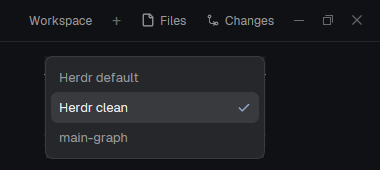
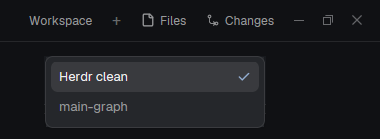
fix(workspaces): leave Herdr's main layout out of the menu (#14)
Herdr's shipped main can't carry the Workspace link, so switching to it
from the menu left no way back but a key or a command. The menu now
hides main along with the demo layouts; "clean", its copy with the
link, stands in for it. Docs, recipe snippet and preview updated.

Claude-Session: https://claude.ai/code/session_017X7WkkdpFJcHjoUjqDkwuE

diff --git a/workspaces/mods/workspaces/main.js b/workspaces/mods/workspaces/main.js
@@ -7,9 +7,10 @@ import { View, div, svg } from "gpui-kit";
 import { v_flex, h_flex } from "gpui-base";
 import { run, props, closeOverlay, theme, layouts, shared } from "herdr";
 
-// Herdr's shipped demo layouts. "main" stays: it is Herdr's default screen.
-const HIDDEN = new Set(["terminals", "win98"]);
-const LABELS = { main: "Herdr default", clean: "Herdr clean" };
+// Herdr's shipped layouts: "main" has no Workspace link to come back with
+// ("clean" is its copy that does), the others are demos.
+const HIDDEN = new Set(["main", "terminals", "win98"]);
+const LABELS = { clean: "Herdr clean" };
 
 // Rows are ROW px and the list has PAD px around it: the opener sizes the popup
 // as 2 * PAD + rows * ROW, since a mod can't import another mod's code.

diff --git a/workspaces/RECIPE.md b/workspaces/RECIPE.md
@@ -10,7 +10,7 @@ A layout picker: a "Workspace" text link in the tab bar opens a popup listing th
 
 **The menu**: a popup at the pointer, 220px wide, on `popover`, 5px padding, text 12.8px. One 31px row per layout (8px side padding, radius 7): the label, truncated, in `foreground` for the shown layout and `muted` for the others; the shown layout also gets a 14px `accent` check (`mods/workspace-chrome/check.svg`) at the right. The highlighted row is `selected`, hovered rows `hover`. With no layouts to list, one `dim` row reads "No layouts".
 
-Rows are `layouts()` in its order (main first), minus `terminals` and `win98` (Herdr's demo layouts). Labels: `main` → "Herdr default", `clean` → "Herdr clean", any other layout by its file name.
+Rows are `layouts()` in its order, minus Herdr's shipped layouts: `main` (it can't carry the link, so switching to it would leave the person without a way back; `clean` is its copy that can) and the demos `terminals` and `win98`. Labels: `clean` → "Herdr clean", any other layout by its file name.
 
 ## How it behaves
 
@@ -33,7 +33,7 @@ In a tab bar mod based on Herdr's `tabs` (0.1.15), import `layouts` from `"herdr
 .child(h_flex().id("workspace").h(26).px(8).flex_none().items_center().rounded(6).text_size(12).text_color(t.muted)
   .hover(s => s.bg(t.hover).text_color(t.foreground)).on_mouse_down("left", stop)
   .on_click(() => openOverlay({ mod: "workspaces", kind: "popup", width: 220,
-    height: 10 + 31 * Math.max(1, layouts().filter(n => n !== "terminals" && n !== "win98").length) }))
+    height: 10 + 31 * Math.max(1, layouts().filter(n => !["main", "terminals", "win98"].includes(n)).length) }))
   .child("Workspace"))
 ```
 
@@ -52,7 +52,7 @@ Add the link to `mods/tabs-workspace/main.js` as above, then in `layouts/clean.j
 
 - Copying the folder alone shows nothing. The install is not done until clicking Workspace in the person's tab bar opens the menu.
 - Herdr's shipped `main` can't carry the link; from it, Ctrl+Shift+L (`layout.switch` with no name) steps to the next layout.
-- The hidden names live in two places, this mod and the opener's height; change both together.
+- The hidden names (`main`, `terminals`, `win98`) live in two places, this mod and the opener's height; change both together.
 - `layout.clone` switches the window to the clone. Put the person back on their layout afterwards.
 - `herdr-app check` loads the mod with no props; it passes with or without a tab bar wired. To see the menu without the link: `herdr-app do mod.open '{"name":"workspaces"}'`.
 - Built and used on Windows with Herdr 0.1.15. Untested on macOS and Linux.
@@ -60,6 +60,6 @@ Add the link to `mods/tabs-workspace/main.js` as above, then in `layouts/clean.j
 ## Done when
 
 - `herdr-app check` passes for `mods/workspaces` and for each tab bar mod that was edited; `herdr-app status` shows no errors.
-- Clicking Workspace opens the menu listing the person's layouts without Terminals and Herdr 98, the shown one ticked.
+- Clicking Workspace opens the menu listing the person's layouts without Herdr's main, Terminals and Herdr 98, the shown one ticked.
 - Choosing another layout switches the window to it; `herdr-app status` reports that layout.
 - If `clean` was made, it looks like Herdr's default plus the Workspace link, and the link switches back.

diff --git a/workspaces/README.md b/workspaces/README.md
@@ -7,11 +7,11 @@ A "Workspace" link in the tab bar that opens a small menu of your layouts, like 
 ## What it does
 
 - **Workspace** sits in the tab bar just before the `+` button, as plain text, apart from the panel buttons.
-- Clicking it opens a menu at the pointer listing every layout in `~/.config/herdr-app/layouts/`, the shown one ticked. Herdr's demo layouts (Terminals, Herdr 98) are left out. `main` reads "Herdr default"; `clean` reads "Herdr clean".
+- Clicking it opens a menu at the pointer listing every layout in `~/.config/herdr-app/layouts/`, the shown one ticked. Herdr's own layouts are left out: its default (`main`), because it has no link to come back with, and the demos Terminals and Herdr 98. `clean` reads "Herdr clean".
 - Click a row, or use ↑/↓ and Enter, to switch. Esc closes it.
 - Nothing is uninstalled or reinstalled: mods a layout doesn't place simply aren't shown.
 
-**Herdr clean.** Herdr's own layout and tab bar are read-only, so the link can't be added to them. The recipe makes `clean`, a copy of Herdr's default layout whose tab bar (`tabs-workspace`, a copy of Herdr's `tabs`) has the link. It looks like Herdr's default plus that one link, so you can show stock Herdr and still switch back with a click.
+**Herdr clean.** Herdr's own layout and tab bar are read-only, so the link can't be added to them. The recipe makes `clean`, a copy of Herdr's default layout whose tab bar (`tabs-workspace`, a copy of Herdr's `tabs`) has the link. It looks like Herdr's default plus that one link, so you can show stock Herdr and still switch back with a click. It replaces Herdr's default in the menu.
 
 ## Install
 
@@ -31,6 +31,6 @@ It follows [RECIPE.md](RECIPE.md). Installation has two parts:
 ## Limits
 
 - Herdr's shipped `main` layout has no link. From it, switch back with **Ctrl+Shift+L** (next layout) or `herdr-app do layout.switch '{"name":"<layout>"}'`.
-- The hidden names (`terminals`, `win98`) are fixed in `main.js` and repeated in the tab bar's height calculation.
+- The hidden names (`main`, `terminals`, `win98`) are fixed in `main.js` and repeated in the tab bar's height calculation.
 - A layout switch closes open overlay windows.
 - Built and used on Windows with Herdr 0.1.15. Untested on macOS and Linux.

diff --git a/README.md b/README.md
@@ -10,7 +10,7 @@ Mods for the [Herdr](https://herdr.dev) desktop app. Each mod lives in its own f
 | [Skills](skills/) | A side panel listing the Claude Code skills and slash commands of the project and of `~/.claude`, with each one's text. |
 | [Servers](servers/) | A sidebar section listing the local servers running on your computer under their space, each with a stop button and an open-in-browser button. |
 | [Scripts](scripts/) | A side panel listing the project's `package.json` scripts; a click runs one in a new terminal pane. |
-| [Workspaces](workspaces/) | A "Workspace" link in the tab bar that opens a menu of your layouts; each layout is its own set of mods, so picking one switches them. Includes a clean copy of Herdr's default with the link. |
+| [Workspaces](workspaces/) | A "Workspace" link in the tab bar that opens a menu of your layouts; each layout is its own set of mods, so picking one switches them. Includes a clean copy of Herdr's default with the link, listed in place of the original. |
 | [Herdr orchestration](herdr-orchestration/) | Not a mod: a Claude Code skill, role templates and scripts for running Claude workers and a Codex reviewer in split panes, with a tested list of hc/Codex/Windows frictions. |
 
 ## Install
